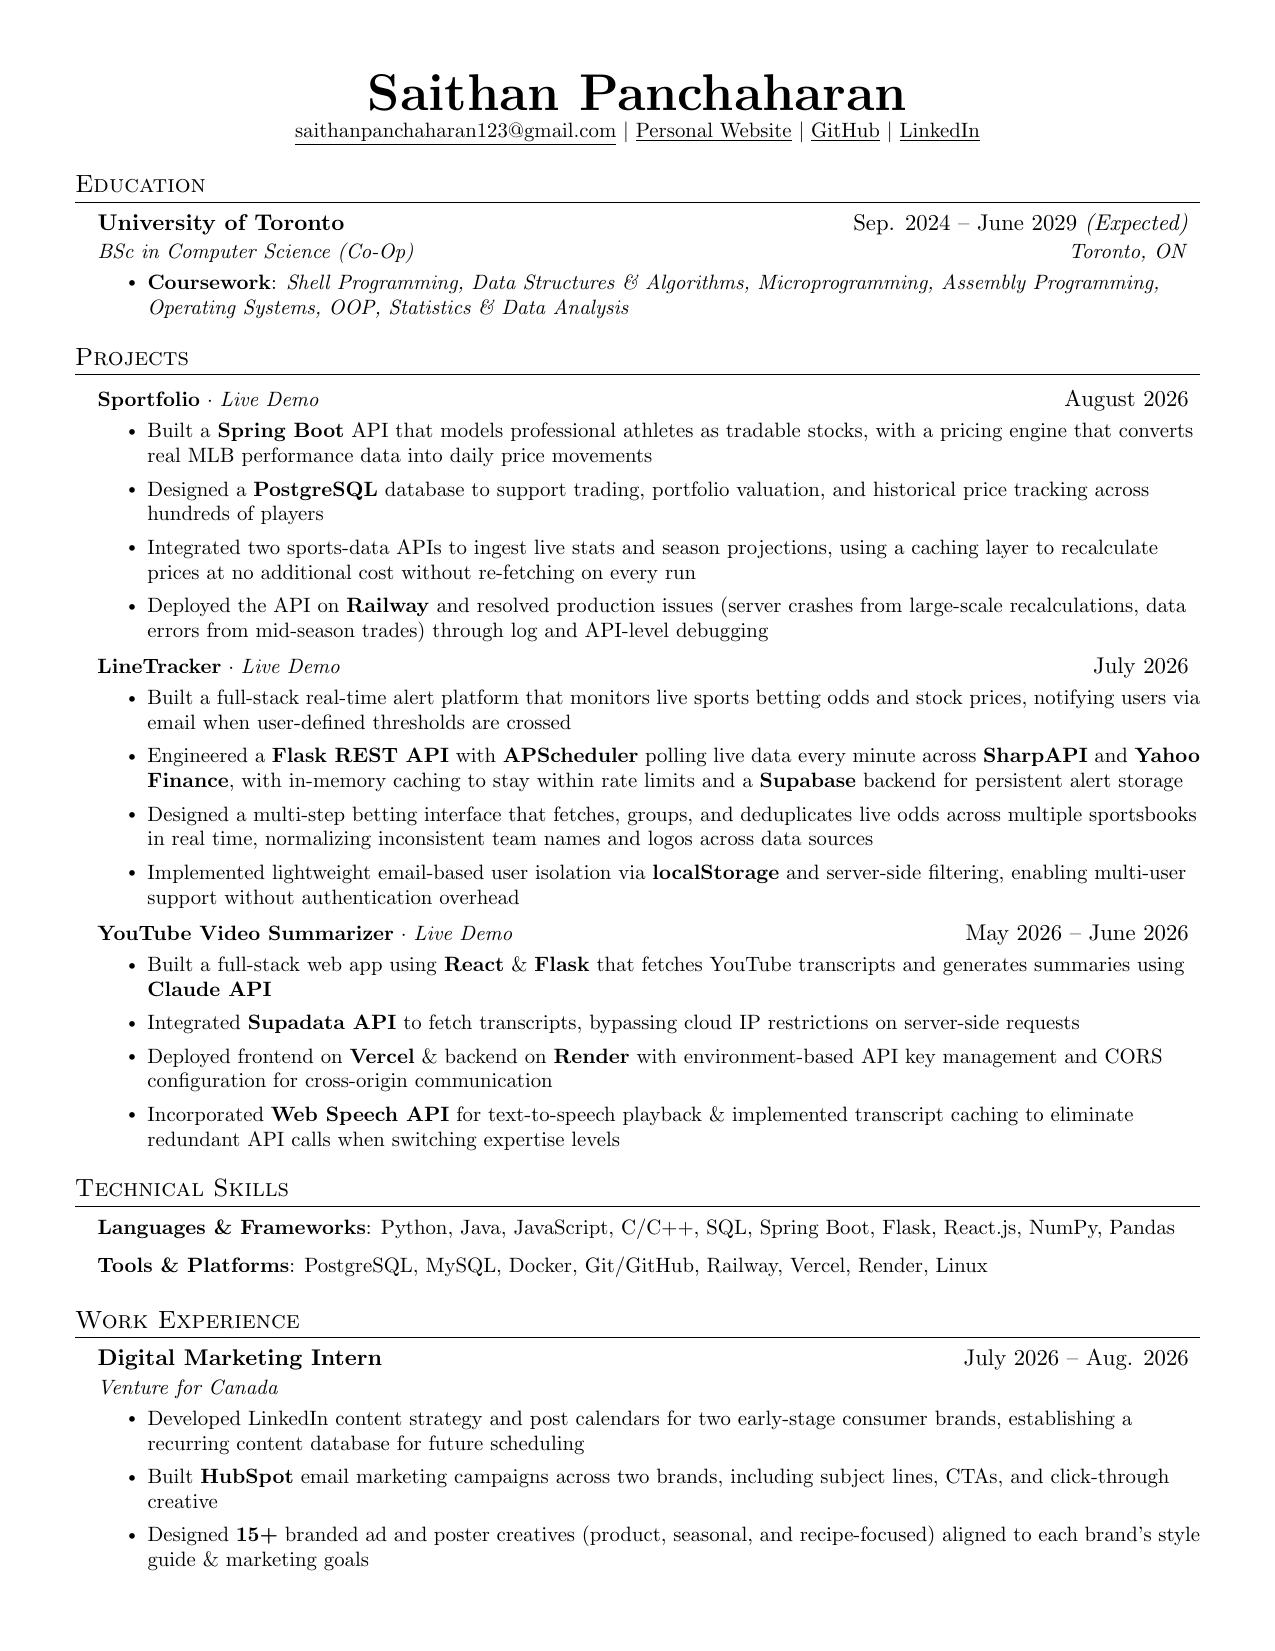
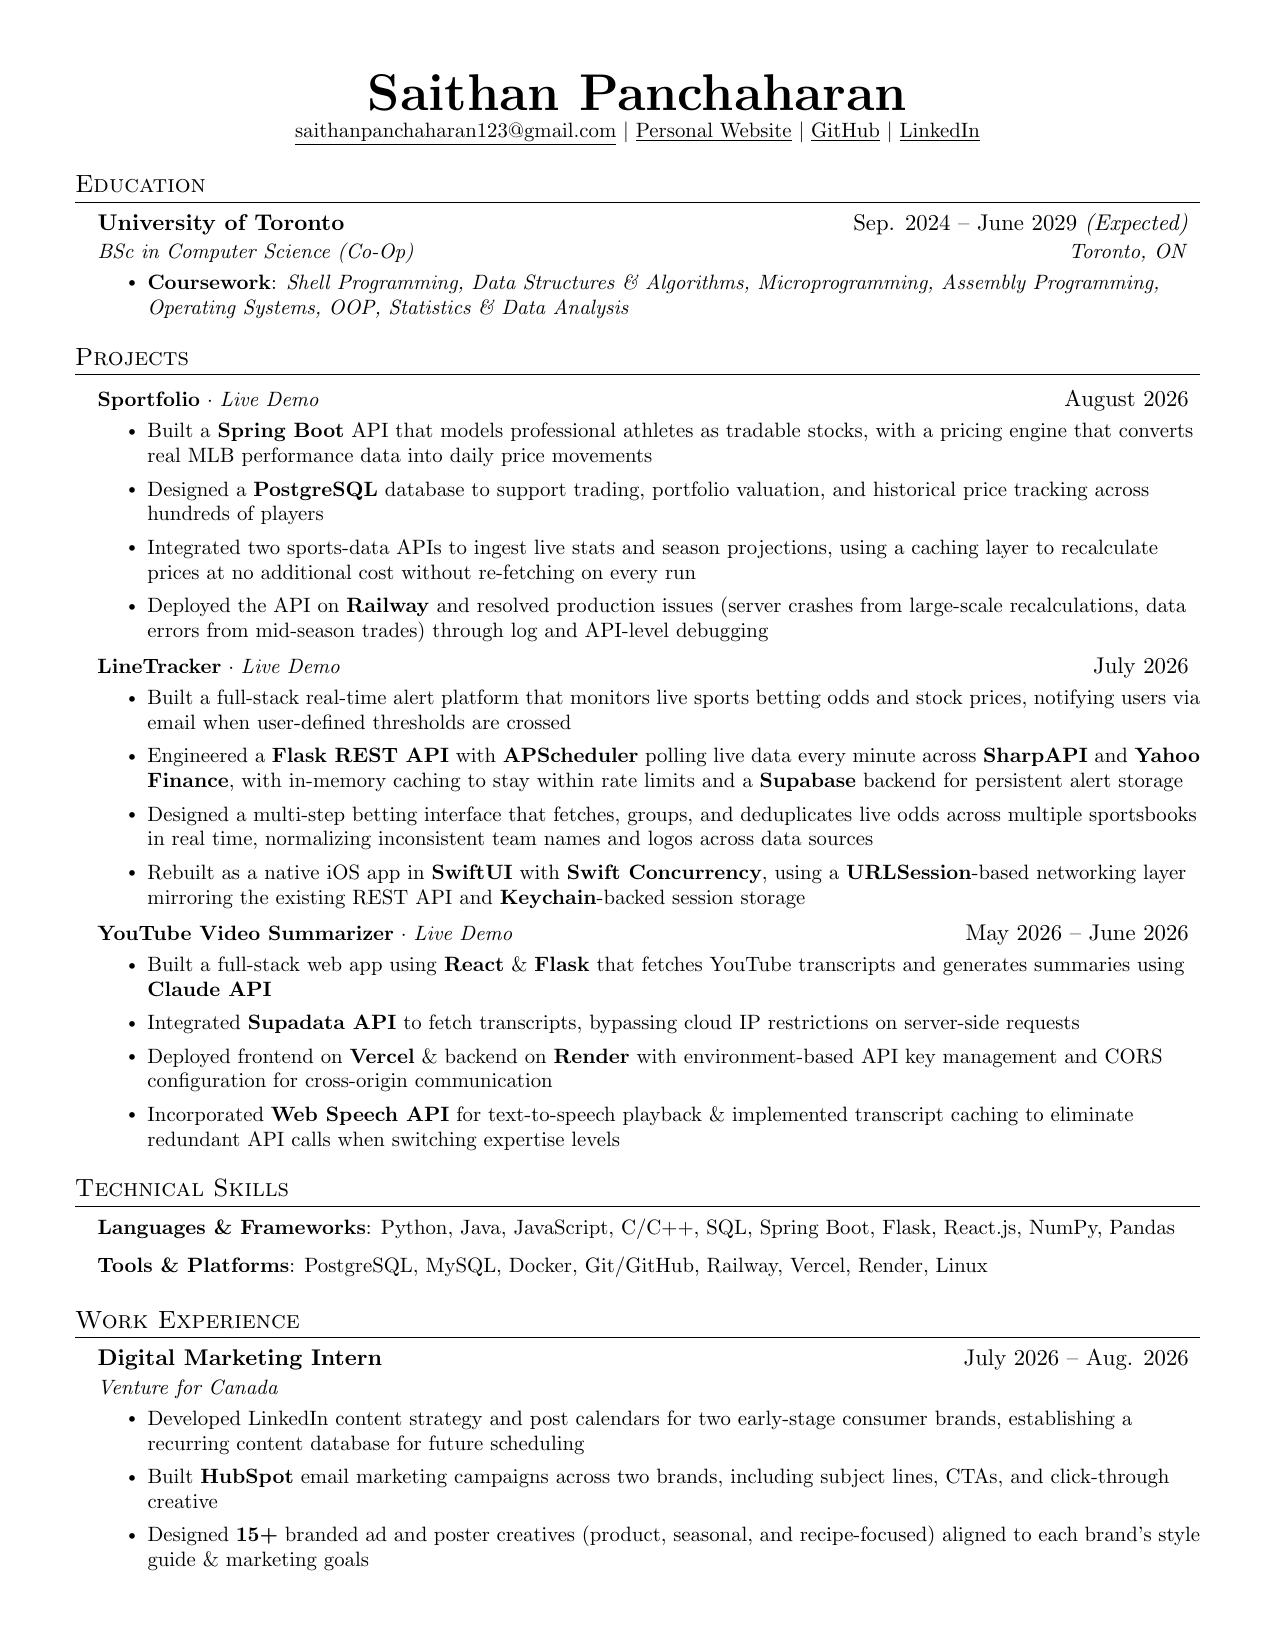
Refresh resume preview image from updated PDF (cache-bust); trim iOS highlight
Claude-Session: https://claude.ai/code/session_01EeS5eQKUC98EPuWbp4Hr7u

Changed region(s): [[0.1224, 0.5251, 0.9176, 0.556]]

diff --git a/index.html b/index.html
@@ -463,7 +463,7 @@ footer{border-top:1px solid var(--border-soft);padding:30px 0;}
                 <div class="detail-col">
                   <h4>Highlights</h4>
                   <ul>
-                    <li>A fully native SwiftUI app (not a browser wrapped in a shell) sharing the same Flask/PostgreSQL backend as the web version, so alerts stay in sync across both automatically.</li>
+                    <li>A fully native SwiftUI app sharing the same Flask/PostgreSQL backend as the web version, so alerts stay in sync across both automatically.</li>
                     <li>A custom multi-step picker (sport → game → outcome → target odds, with a hand-built slider) rebuilt natively to match the web app&rsquo;s flow, instead of embedding a browser.</li>
                     <li>An in-app alert feed with an unread badge that mimics real push notifications.</li>
                   </ul>
@@ -615,7 +615,7 @@ footer{border-top:1px solid var(--border-soft);padding:30px 0;}
           </div>
           <div class="resume-paper">
             <a href="Files/portfolio_resume.pdf" target="_blank" rel="noopener" aria-label="Open resume PDF in a new tab">
-              <img src="Files/resume-preview.jpg" width="1275" height="1651" loading="lazy" alt="Saithan Panchaharan resume — education, projects, technical skills, and work experience">
+              <img src="Files/resume-preview.jpg?v=2" width="1275" height="1651" loading="lazy" alt="Saithan Panchaharan resume — education, projects, technical skills, and work experience">
             </a>
           </div>
         </div>
